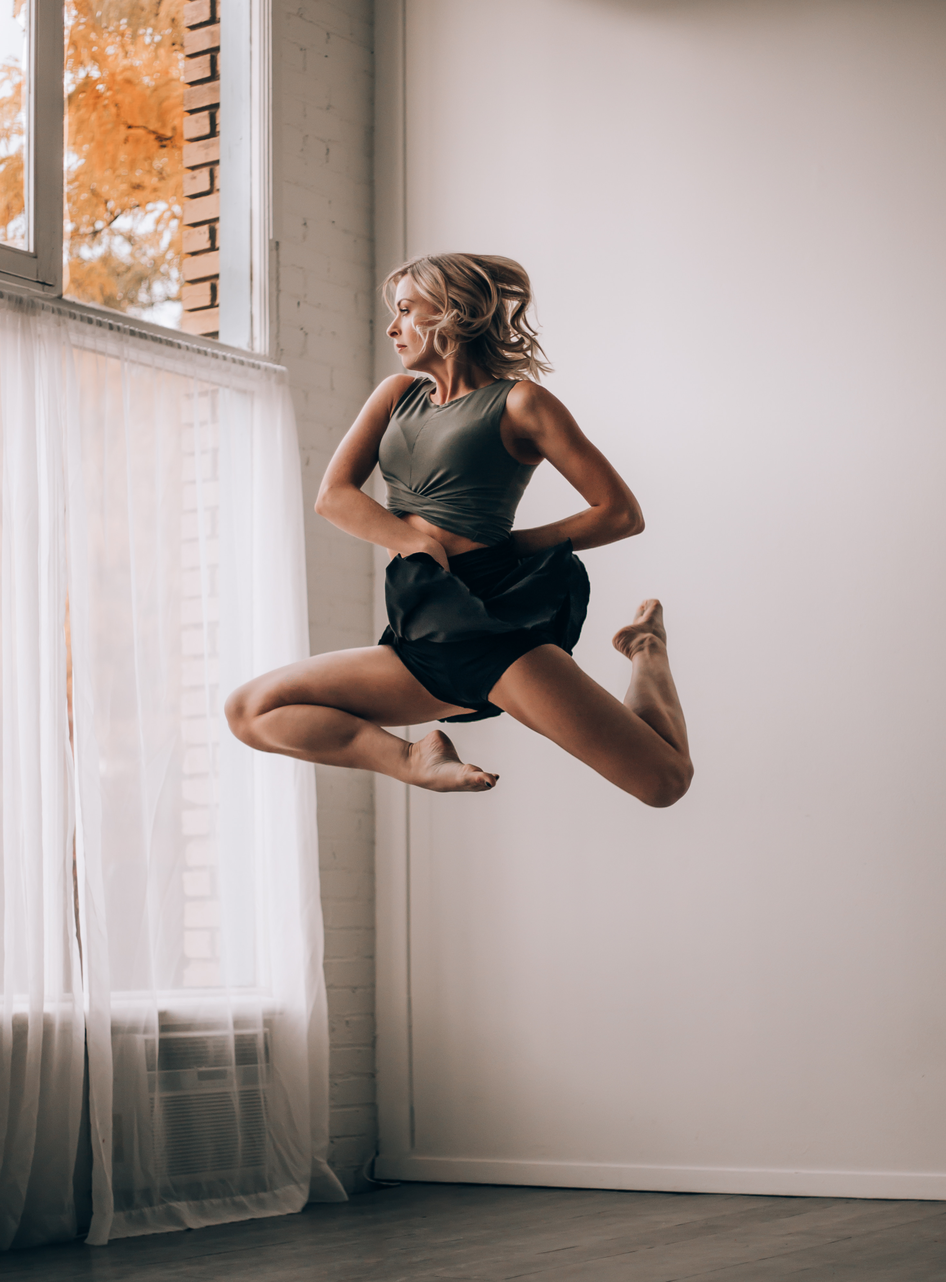
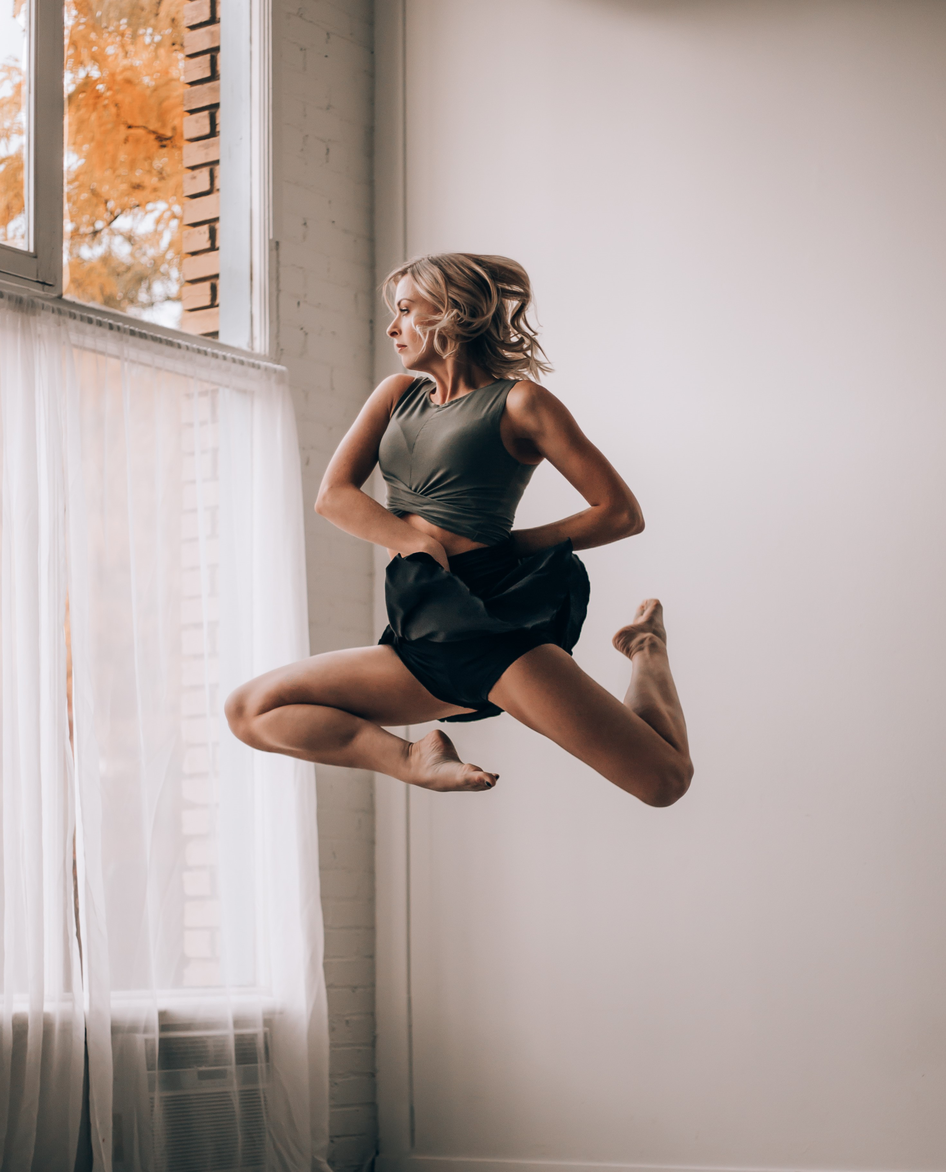
added to about section, styled all about pages

diff --git a/client/src/pages/About.jsx b/client/src/pages/About.jsx
@@ -1,13 +1,14 @@
 import { Box, Heading, Text, Flex, Image } from '@chakra-ui/react';
 import headshot from '../assets/headshot.jpg';
+import jumping from '../assets/jumping.jpg';
 
 export default function About () {
   return (
-    <Box p={6} bg="brand.50" borderRadius="md" boxShadow="lg" mt={6} maxW='920px' mx='auto'>
+    <Box p={6} bg="brand.50" borderRadius="md" boxShadow="lg" mt={{ base: 2, md: 6 }} maxW='920px' mx='auto'>
         <Heading as="h1" size="xl" mb={4} textAlign="center" mx="auto" pb={4} align="center">
           Dancer • Instructor • Choreographer 
         </Heading>
-        <Flex direction={{ base: 'column', md: 'row' }} align="center" justify="space-between">
+        <Flex direction={{ base: 'column', md: 'row' }} align="center" justify="space-between" fontSize={{ base: 'lg', md: 'xl'}}>
 
         <Image 
               src={headshot} 
@@ -17,23 +18,38 @@ export default function About () {
               borderRadius="50%" 
               boxShadow="lg"
               objectFit="cover"
-              mr={4}
-              mb={6}
+              m={4}
+            
             />
-          <Box textAlign="center" mb={4}>
-              <Text fontSize="lg" mb={4}>
+          <Box textAlign="center">
+              <Text m={{ base: 2, md: 4}}>
               Hannah was raised in Kent, Washington where her passion for the arts began at just 8 years old when she learned to play the piano.
               </Text>
-              <Text fontSize="lg" mb={4}>
+              <Text m={{ base: 2, md: 4}}>
               She began her training in ballroom dance at the age of 14 and won her first national title at 16. At 18, Hannah was awarded a Ballroom Dance Performance scholarship to Utah Valley University where she danced on the UVU Ballroom Dance Tour Team and joined Mos.A.IC., the university’s hip hop company. In May 2018, Hannah graduated with a BS in Movement Studies with an emphasis in Ballroom Dance.
               </Text>
-              <Text fontSize="lg" mb={4}>
+          </Box>
+        </Flex>
+        <Flex direction={{ base: 'column', md: 'row' }} align="center" justify="space-between" fontSize={{ base: 'lg', md: 'xl'}}>
+          <Box textAlign="center">
+              <Text m={{ base: 2, md: 4}}>
               Hannah has been a finalist in many competitions throughout the country in the International Ballroom and Latin styles, including California Open Dancesport, BYU Dancesport Championships, and U.S. National Amateur Dancesport Championships. After over a decade of competition and performance experience, Hannah expanded her artistic abilities to Hale Centre Theatre, where she performed in the U.S. premiere of Baz Luhrmann’s Strictly Ballroom the Musical.
               </Text>
-              <Text fontSize="lg">
+              <Text m={{ base: 2, md: 4}}>
               Hannah enjoys sharing her passion for dance with others. While teaching, she strives to create an environment that promotes confidence, strength, and self-love through the power of movement and expression. Hannah continues to teach, choreograph, and pursue independent performance opportunities globally.
               </Text>
           </Box>
+          <Image 
+              src={jumping} 
+              alt="image of Hannah Smith dancing" 
+              width={{ base: "200px", md: "350px" }}
+              height={{ base: "200px", md: "350px" }}
+              borderRadius="50%" 
+              boxShadow="lg"
+              objectFit="cover"
+              m={4}
+              
+            />
         </Flex>
     </Box>
   );

diff --git a/client/src/components/Navbar.jsx b/client/src/components/Navbar.jsx
@@ -57,7 +57,7 @@ export default function Navbar() {
             {/* Using VStack to space out buttons */}
             <VStack spacing={6} align="stretch" mt={8}>
               <Button as={RouterLink} to="/about" {...linkStyles} w="100%" onClick={onClose}>
-                About HSB
+                About Hannah
               </Button>
               <Button as={RouterLink} to="/notes" {...linkStyles} w="100%" onClick={onClose}>
                 Notes
@@ -114,7 +114,7 @@ export default function Navbar() {
       {/* Full-width Navbar for screens larger than 1024px (centered) */}
       <Flex as="nav" className="navbar-links" gap={2} display={{ base: "none", lg: "flex" }} justify="center" align="center" flexGrow={1}>
         <Button as={RouterLink} to="/about" {...linkStyles}>
-          About HSB
+          About Hannah
         </Button>
         <Button as={RouterLink} to="/notes" {...linkStyles}>
           Notes

diff --git a/client/src/pages/LearnToDance/About.jsx b/client/src/pages/LearnToDance/About.jsx
@@ -81,14 +81,14 @@ export default function LearnAbout() {
       <Text fontSize="lg" fontWeight="bold" align="center">
       Book your lesson or your <Box as="span" color="red" fontSize="2xl" fontWeight="bold">FREE</Box> phone consultation below!
       </Text>
-      <Box p="5" m="5">
+      <Flex direction={{ base: 'column', md: 'row' }} align="center" justify="center" p="5" m="5">
       <Button as={RouterLink} to="/learn-to-dance/book-lesson" {...buttonStyles} m={3}>
         Book Your Lesson
       </Button>
       <Button as={RouterLink} to="/book-consultation" {...buttonStyles} m={3}>
         FREE Phone Consultation!
       </Button>
-      </Box>
+      </Flex>
   </Box>
 );
 }

diff --git a/client/src/pages/Weddings/About.jsx b/client/src/pages/Weddings/About.jsx
@@ -75,14 +75,14 @@ export default function WeddingAbout() {
       <Text fontSize="lg" fontWeight="bold" align="center">
       Book your lesson or your <Box as="span" color="red" fontSize="2xl" fontWeight="bold">FREE</Box> phone consultation below!
       </Text>
-      <Box p="5" m="5">
+      <Flex direction={{ base: 'column', md: 'row' }} align="center" justify="center" p="5" m="5">
       <Button as={RouterLink} to="/wedding/book-lesson" {...buttonStyles} m={3}>
         Book Your Lesson
       </Button>
       <Button as={RouterLink} to="/book-consultation" {...buttonStyles} m={3}>
         FREE Phone Consultation!
       </Button>
-      </Box>
+      </Flex>
   </Box>
 );
 }
